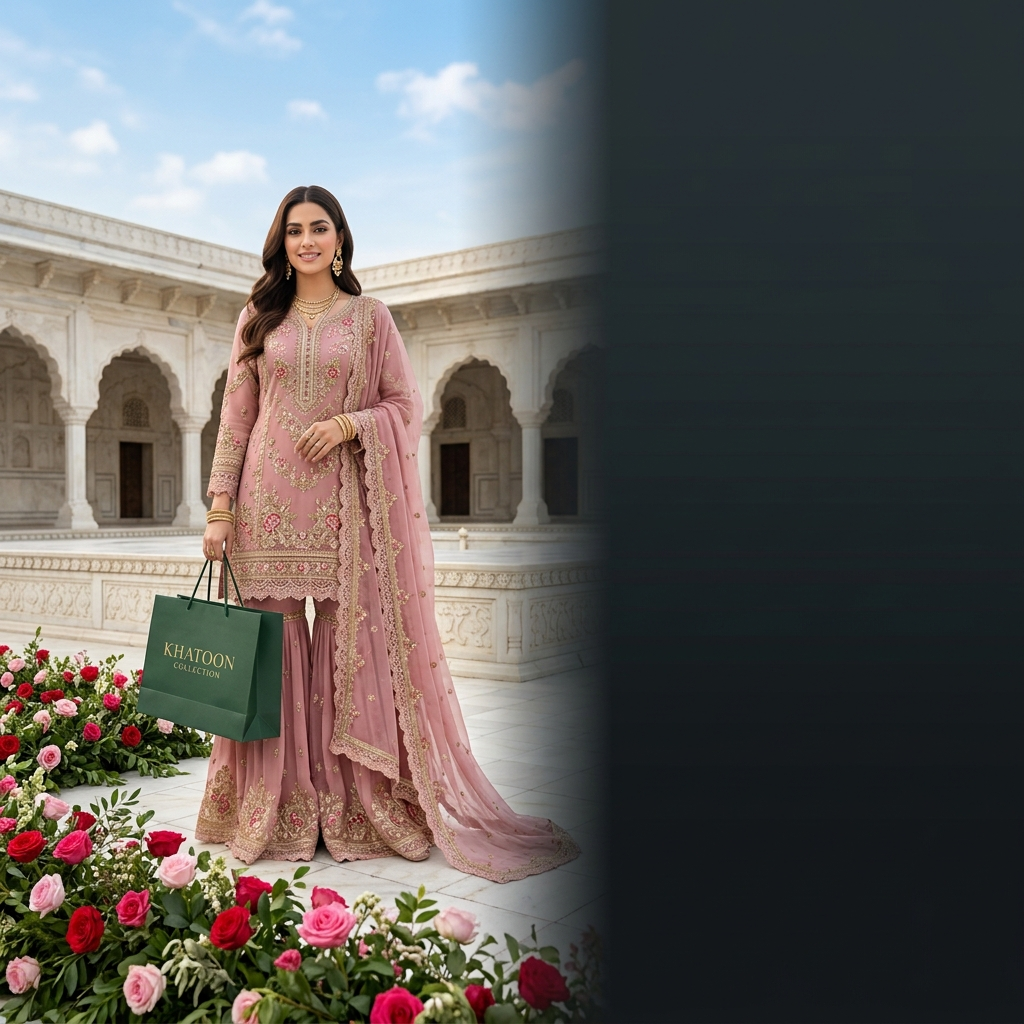
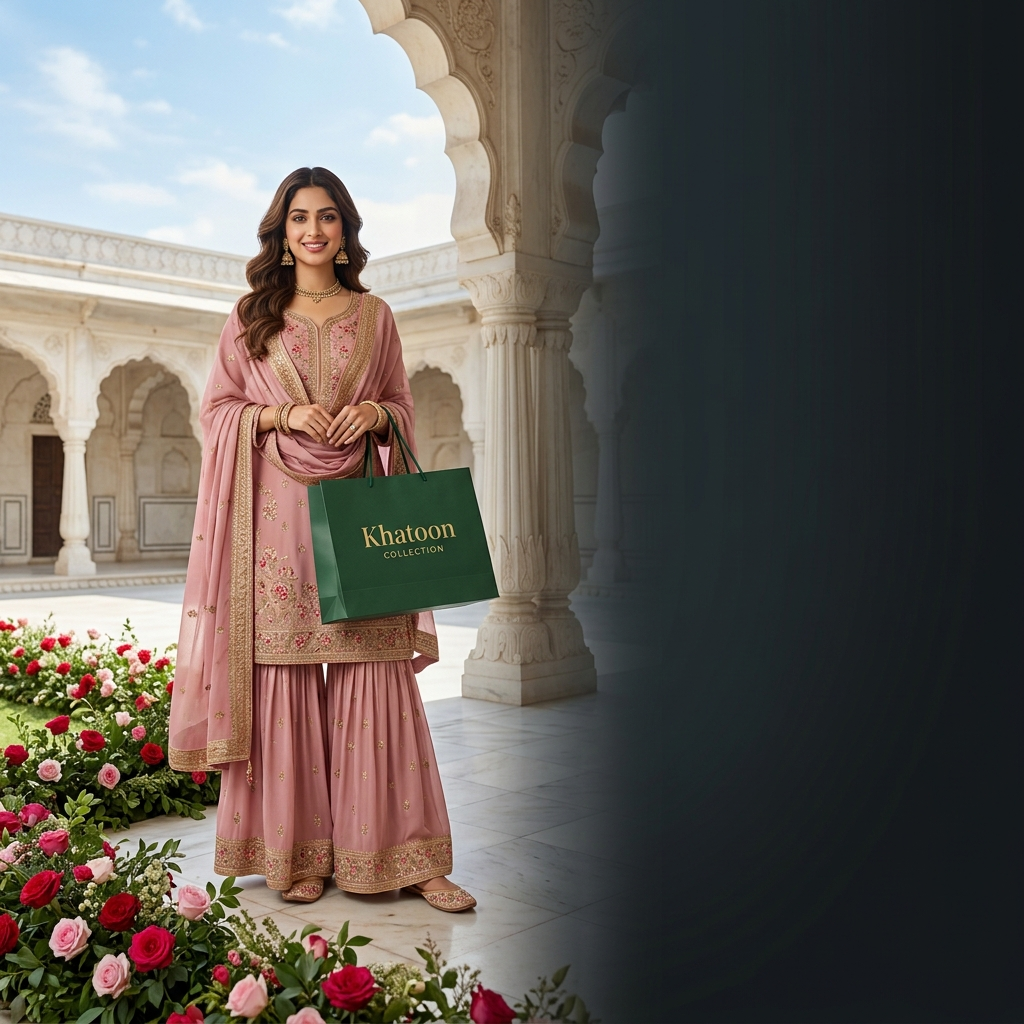
style: adjust image focus to center and use vertical crop-safe model

diff --git a/components/HomeSlider.tsx b/components/HomeSlider.tsx
@@ -260,7 +260,7 @@ export default function HomeSlider({ initialData }: { initialData?: any }) {
                     fill
                     priority={index === 0}
                     sizes="100vw"
-                    className={isMobile ? "object-cover" : "object-cover object-[center_35%]"}
+                    className={isMobile ? "object-cover" : "object-cover object-center"}
                   />
                 </Link>
               ) : (
@@ -270,7 +270,7 @@ export default function HomeSlider({ initialData }: { initialData?: any }) {
                   fill
                   priority={index === 0}
                   sizes="100vw"
-                  className={isMobile ? "object-cover" : "object-cover object-[center_35%]"}
+                  className={isMobile ? "object-cover" : "object-cover object-center"}
                 />
               )}
 
